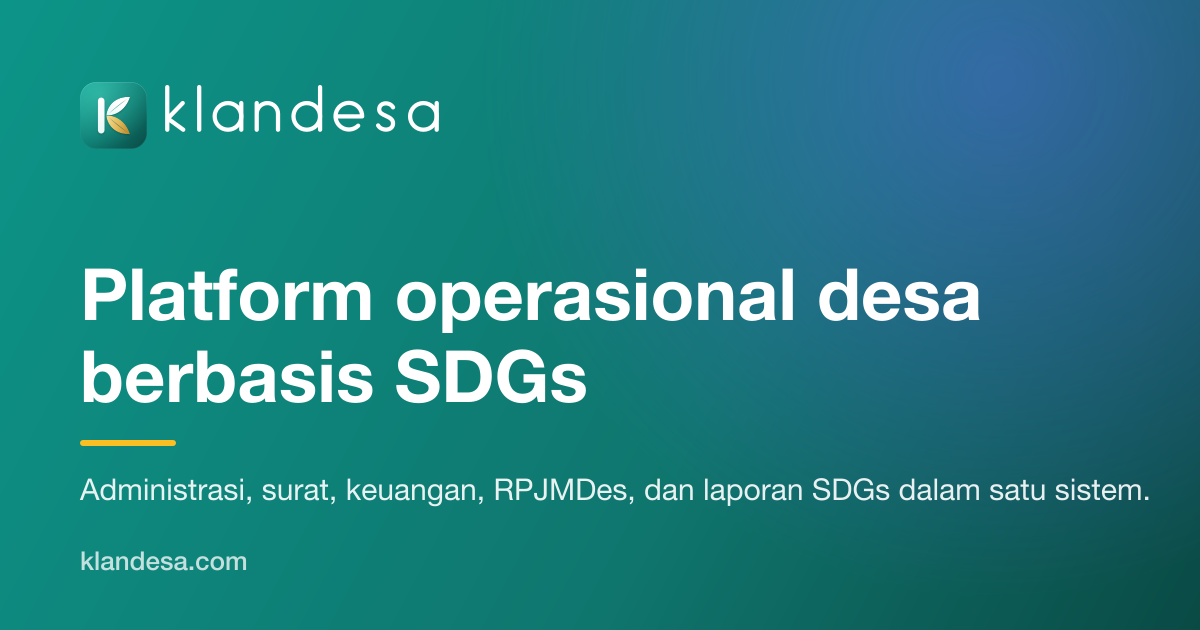
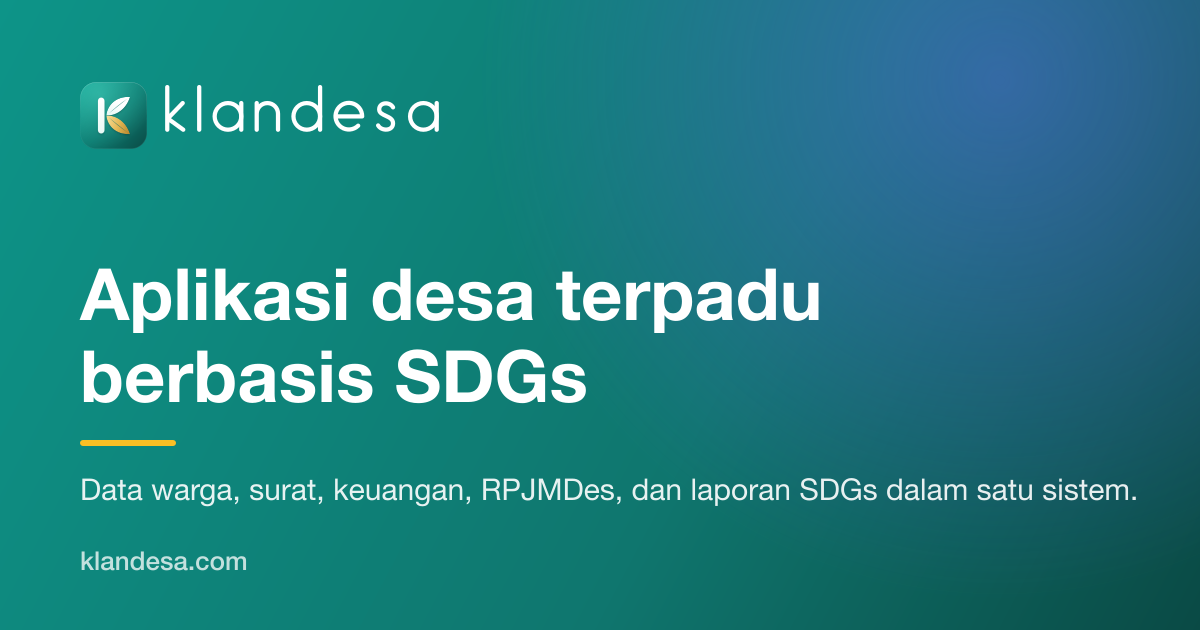
feat: update application metadata and content for improved clarity and SEO
- Revised metadata in layout.tsx to reflect new branding and application description, enhancing SEO and user understanding.
- Enhanced landing page content in harga/layout.tsx and solusi/desa/page.tsx to clarify features and offerings, including the integration of structured data for better search visibility.
- Updated various sections across components to reflect the new application narrative, emphasizing the comprehensive nature of the Klandesa platform and its features.
- Improved marketing copy in ModuleCatalog and PilotSpotlightSection to accurately represent the current state of features and user engagement.
- Adjusted hero and CTA sections to align messaging with the updated application focus, promoting trial offers and user benefits more effectively.

Changed region(s): [[0.0617, 0.4222, 0.8325, 0.5429], [0.0617, 0.754, 0.9558, 0.8143]]

diff --git a/components/features/HeroSection.tsx b/components/features/HeroSection.tsx
@@ -1,6 +1,10 @@
 import { ArrowRight, Sparkles, Target } from "lucide-react";
 import Link from "next/link";
 
+import { LENGKAP_SETUP_FEE } from "@/lib/billing/lengkap";
+
+const SETUP_FEE_LABEL = `Rp${(LENGKAP_SETUP_FEE / 1_000_000).toLocaleString("id-ID")} juta`;
+
 /** Dekoratif hero: satu lapisan absolute penuh, aksen lebih kuat di kanan. */
 function HeroBackdropDecor() {
   return (
@@ -62,62 +66,63 @@ export function HeroSection({
           <div className="inline-flex items-center gap-2 bg-white/80 backdrop-blur-sm px-4 py-2 rounded-full shadow-sm border border-[#0d9488]/20">
             <Target className="w-4 h-4 text-[#0d9488]" aria-hidden />
             <span className="text-sm text-gray-700">
-              Platform operasional desa • berbasis SDGs
+              Aplikasi desa terpadu • berbasis SDGs
             </span>
           </div>
 
           <h1 className="text-4xl md:text-3xl lg:text-5xl text-gray-900 leading-[1.1] tracking-tight font-extrabold flex flex-col gap-2">
-            Administrasi sampai Pelaporan
+            Aplikasi Desa dari Administrasi sampai Pelaporan
             <span className="bg-linear-to-r from-[#0d9488] via-[#0ea5e9] to-[#6366f1] bg-clip-text text-transparent animate-gradient">
-              Dalam satu platform cerdas
+              Dalam satu platform
             </span>
           </h1>
         </div>
 
         <p className="text-lg md:text-xl text-gray-600 leading-relaxed max-w-none w-full">
-          Klandesa menghubungkan surat daring, APBDes dengan penanda sasaran SDGs,
-          perencanaan RPJMDes, program PKK &amp; BUMDes, serta unduhan data dalam format
-          standar Kemendesa—dengan aturan akses yang jelas untuk perangkat desa dan pemda.
+          Klandesa menghubungkan data warga, surat daring, APBDes dengan penanda sasaran SDGs,
+          perencanaan RPJMDes, dan program PKK &amp; BUMDes—lengkap dengan aplikasi seluler untuk
+          warga, RT, dan perangkat desa, serta unduhan format Kemendesa dengan aturan akses yang jelas.
         </p>
 
         <div className="max-w-xl lg:max-w-2xl space-y-6">
           <div className="flex flex-wrap gap-3">
             <div className="flex items-center gap-2 bg-white/70 backdrop-blur-sm px-4 py-2 rounded-full shadow-sm border border-teal-100">
               <Sparkles className="w-4 h-4 text-amber-500" aria-hidden />
-              <span className="text-sm text-gray-700">Skor SDGs dihitung dari data operasional desa</span>
+              <span className="text-sm text-gray-700">Satu Paket Lengkap {SETUP_FEE_LABEL}, sudah termasuk tahun pertama</span>
             </div>
             <div className="flex items-center gap-2 bg-white/70 backdrop-blur-sm px-4 py-2 rounded-full shadow-sm border border-indigo-100">
-              <span className="text-sm text-gray-700">Unduh format Kemendesa + catatan riwayat pengiriman</span>
+              <span className="text-sm text-gray-700">Trial gratis 14 hari • semua fitur terbuka</span>
             </div>
           </div>
 
           <div className="flex flex-col sm:flex-row gap-4 justify-center lg:justify-start">
+            <button
+              type="button"
+              onClick={onRegisterClick}
+              className="group inline-flex items-center justify-center gap-2 bg-linear-to-r from-[#0d9488] to-[#0f766e] text-white px-8 py-4 rounded-xl hover:shadow-xl transition-all hover:scale-[1.02] cursor-pointer"
+            >
+              Coba gratis 14 hari
+              <ArrowRight className="w-5 h-5 group-hover:translate-x-0.5 transition-transform" />
+            </button>
             <Link
               href="/platform"
-              className="group inline-flex items-center justify-center gap-2 bg-linear-to-r from-[#0d9488] to-[#0f766e] text-white px-8 py-4 rounded-xl hover:shadow-xl transition-all hover:scale-[1.02]"
+              className="bg-white text-gray-900 px-8 py-4 rounded-xl border border-gray-200 shadow hover:shadow-md transition-all text-center"
             >
               Lihat Platform
-              <ArrowRight className="w-5 h-5 group-hover:translate-x-0.5 transition-transform" />
             </Link>
             <button
               type="button"
               onClick={onContactClick}
-              className="bg-white text-gray-900 px-8 py-4 rounded-xl border border-gray-200 shadow hover:shadow-md transition-all"
+              className="text-[#0d9488] font-medium px-2 py-4 hover:underline cursor-pointer"
             >
-              Konsultasi Gratis
-            </button>
-            <button
-              type="button"
-              onClick={onRegisterClick}
-              className="text-[#0d9488] font-medium px-2 py-4 hover:underline"
-            >
-              Daftar sekarang
+              Konsultasi gratis
             </button>
           </div>
 
           <div className="rounded-2xl border border-teal-100 bg-white/75 px-4 py-3 text-sm text-gray-700 max-w-md">
-            <strong className="text-[#0d9488]">Akses awal:</strong> modul seperti SDGs, RPJMDes, peta wilayah,
-            unduhan Kemendesa, dan Asisten AI dibuka bertahap untuk desa percontohan—hubungi tim kami untuk jadwalnya.
+            <strong className="text-[#0d9488]">Akses awal:</strong> SDGs, RPJMDes, peta wilayah,
+            unduhan Kemendesa, dan Asisten AI sudah termasuk Paket Lengkap; fiturnya masih
+            disempurnakan bersama desa pengguna.
           </div>
         </div>
       </div>

diff --git a/app/layout.tsx b/app/layout.tsx
@@ -23,12 +23,14 @@ const siteUrl = process.env.NEXT_PUBLIC_SITE_URL || "https://klandesa.com";
 
 export const metadata: Metadata = {
   title: {
-    default: "Klandesa — Platform Operasional Desa Berbasis SDGs",
+    default: "Klandesa — Aplikasi Desa Terpadu Berbasis SDGs",
     template: "%s | Klandesa",
   },
   description:
-    "Klandesa: platform operasional desa berbasis SDGs—administrasi, RPJMDes, integrasi format Kemendesa, dan modul program warga dalam satu sistem.",
+    "Klandesa: aplikasi desa terpadu berbasis SDGs—data warga, surat, keuangan, RPJMDes, format Kemendesa, dan aplikasi seluler warga dalam satu sistem.",
   keywords: [
+    "aplikasi desa",
+    "aplikasi surat desa",
     "platform SDGs desa",
     "aplikasi desa terintegrasi",
     "digitalisasi desa",
@@ -45,23 +47,23 @@ export const metadata: Metadata = {
     locale: "id_ID",
     url: siteUrl,
     siteName: "Klandesa",
-    title: "Klandesa — Platform Operasional Desa Berbasis SDGs",
+    title: "Klandesa — Aplikasi Desa Terpadu Berbasis SDGs",
     description:
-      "Platform operasional desa berbasis SDGs—administrasi, RPJMDes, program PKK/BUMDes, integrasi dokumentasi Kemendesa, satu sistem untuk desa dan pemda.",
+      "Aplikasi desa terpadu berbasis SDGs—data warga, surat, keuangan, RPJMDes, program PKK/BUMDes, dan aplikasi seluler, satu sistem untuk desa dan pemda.",
     images: [
       {
         url: "/images/og-klandesa.png",
         width: 1200,
         height: 630,
-        alt: "Klandesa — Platform operasional desa berbasis SDGs",
+        alt: "Klandesa — Aplikasi desa terpadu berbasis SDGs",
       },
     ],
   },
   twitter: {
     card: "summary_large_image",
-    title: "Klandesa — Platform Operasional Desa Berbasis SDGs",
+    title: "Klandesa — Aplikasi Desa Terpadu Berbasis SDGs",
     description:
-      "Administrasi sampai laporan SDGs: RPJMDes, integrasi dokumentasi Kemendesa, dan modul program dalam satu platform.",
+      "Administrasi sampai laporan SDGs: surat, keuangan, RPJMDes, format Kemendesa, dan aplikasi seluler warga dalam satu platform.",
     images: ["/images/og-klandesa.png"],
   },
   robots: {

diff --git a/lib/marketing/modules.ts b/lib/marketing/modules.ts
@@ -73,7 +73,7 @@ export const MARKETING_MODULE_COPY: Partial<Record<string, string>> = {
   statistik: "Ringkasan indikator desa mendukung kebijakan dan laporan wilayah.",
   "permohonan-warga": "Alur permohonan surat daring dengan status transparan.",
   "layanan-mandiri": "Warga atau admin mengisi layanan secara mandiri dan terstruktur.",
-  "layanan-surat": "Template dan nomor surat resmi konsisten untuk desa.",
+  "layanan-surat": "Susun surat resmi langsung di lembar kertas, dengan nomor surat otomatis.",
   "pengaturan-desa": "Profil dan preferensi desa, termasuk pengaturan pertukaran data.",
   keuangan: "Kas/APBDes, transaksi, dan pelaporan keuangan dengan penanda belanja SDGs.",
   "pengumuman-desa": "Kanal komunikasi resmi antara pemdes dan masyarakat.",
@@ -81,7 +81,7 @@ export const MARKETING_MODULE_COPY: Partial<Record<string, string>> = {
   "pengaduan-masyarakat": "Aduan dapat dilacak demi akuntabilitas pelayanan.",
   "bantuan-program-keluarga": "Pencatatan penerima program sosial mendukung SDGs tanpa menyalahgunakan data.",
   "galeri-desa": "Arsip foto kegiatan desa untuk komunikasi dan transparansi.",
-  absensi: "Presensi perangkat; opsional dengan penanda lokasi kantor desa.",
+  absensi: "Presensi perangkat desa dengan QR; absensi GPS radius tersedia sebagai add-on.",
   pkk:
     "PKK Dasawisma, posyandu, dan indikator kesehatan terhubung skor SDGs (akses awal).",
   sdgs:
@@ -129,14 +129,14 @@ export function getMarketingModules(): MarketingModuleItem[] {
 
 export function getFlagshipMarketingModules(limit = 8): MarketingModuleItem[] {
   const order = [
+    "data-warga",
+    "layanan-surat",
+    "permohonan-warga",
+    "keuangan",
+    "absensi",
+    "pengaduan-masyarakat",
     "sdgs",
     "rpjmdes",
-    "keuangan",
-    "sinkronisasi-data",
-    "peta-infrastruktur",
-    "pkk",
-    "bumdes",
-    "asisten-ai",
   ];
   const all = getMarketingModules();
   const byId = new Map(all.map((m) => [m.id, m]));

diff --git a/components/features/marketing/PilotSpotlightSection.tsx b/components/features/marketing/PilotSpotlightSection.tsx
@@ -3,22 +3,21 @@
 import { EARLY_ACCESS_LABEL } from "@/lib/marketing/copy";
 
 /**
- * Narratif pilot mengganti social proof berangka besar—transparan bahwa beberapa fitur
- * masih dibuka bertahap untuk desa percontohan.
+ * Narasi jujur pengganti social proof berangka besar: beberapa fitur masih berlabel akses awal
+ * (sudah termasuk Paket Lengkap, masih disempurnakan bersama desa pengguna).
  */
 export function PilotSpotlightSection() {
   return (
     <section className="py-14 md:py-16 bg-linear-to-br from-emerald-50/70 via-white to-indigo-50/60 border-y border-emerald-100/80">
       <div className="max-w-4xl mx-auto px-4 sm:px-6 lg:px-8 text-center space-y-5">
-        <p className="text-xs font-semibold uppercase tracking-[0.25em] text-[#0d9488]">Program percontohan</p>
+        <p className="text-xs font-semibold uppercase tracking-[0.25em] text-[#0d9488]">Dikembangkan bersama desa</p>
         <h2 className="text-2xl md:text-3xl text-gray-900 leading-snug">
-          Desa percontohan &amp; fitur akses awal
+          Fitur akses awal sudah termasuk paket
         </h2>
         <p className="text-gray-700 text-lg leading-relaxed">
-          Kami membangun bersama satu desa atau beberapa desa dalam satu kecamatan pada satu waktu.
-          Fitur seperti SDGs lengkap dan unduhan Kemendesa ditandai{" "}
-          <span className="font-semibold text-[#4338ca]">{EARLY_ACCESS_LABEL}</span> sampai wilayah Anda
-          siap dipasangkan pelatihan dan pendampingan resmi.
+          Klandesa dikembangkan bersama desa pengguna. Fitur seperti SDGs lengkap dan unduhan Kemendesa
+          ditandai <span className="font-semibold text-[#4338ca]">{EARLY_ACCESS_LABEL}</span>: sudah bisa
+          dipakai dan termasuk Paket Lengkap, tetapi masih disempurnakan dari masukan desa.
         </p>
       </div>
     </section>

diff --git a/components/features/CTASection.tsx b/components/features/CTASection.tsx
@@ -26,12 +26,12 @@ export function CTASection({
         </div>
 
         <h2 className="text-4xl md:text-5xl lg:text-6xl text-white mb-6 leading-tight">
-          Mau transformasi pembangunan desa Anda?
+          Siap merapikan administrasi desa Anda?
         </h2>
 
         <p className="text-xl md:text-2xl text-white/90 mb-12 max-w-3xl mx-auto leading-relaxed">
-          Ikuti program desa percontohan untuk fitur SDGs, unduhan Kemendesa, dan peta
-          pembangunan—kami jelaskan dengan jujur mana yang sudah siap pakai dan mana yang masih uji coba.
+          Coba semua fitur gratis 14 hari tanpa bayar di muka. Kami jelaskan dengan jujur
+          mana yang sudah matang dan mana yang masih berlabel akses awal.
         </p>
 
         <div className="flex flex-col sm:flex-row gap-4 justify-center pb-12">
@@ -40,7 +40,7 @@ export function CTASection({
             onClick={onRegisterClick}
             className="group relative bg-white text-[#0d9488] px-8 py-4 rounded-xl hover:shadow-2xl transition-all hover:scale-105 flex items-center justify-center gap-2 cursor-pointer"
           >
-            <span>Daftar / Gabung Pilot</span>
+            <span>Coba gratis 14 hari</span>
             <ArrowRight className="w-5 h-5 group-hover:translate-x-1 transition-transform" />
           </button>
 
@@ -85,7 +85,7 @@ export function CTASection({
         </div>
 
         <p className="mt-10 text-white/70 text-xs max-w-xl mx-auto">
-          Persiapan awal meliputi penyesuaian hak akses per jabatan dan orientasi paket penyimpanan. Lama proses bergantung kompleksitas desa Anda.
+          Persiapan awal meliputi penyesuaian hak akses per jabatan dan impor data warga dari Excel. Lama proses bergantung kompleksitas desa Anda.
         </p>
       </div>
     </section>

diff --git a/components/features/marketing/ProductShowcaseSection.tsx b/components/features/marketing/ProductShowcaseSection.tsx
@@ -13,14 +13,14 @@ export function ProductShowcaseSection() {
       <div className="max-w-7xl mx-auto px-4 sm:px-6 lg:px-8">
         <div className="text-center max-w-3xl mx-auto mb-14 space-y-3">
           <p className="text-sm font-semibold uppercase tracking-[0.18em] text-[#0d9488]">
-            Cuplikan antarmuka
+            Ilustrasi antarmuka
           </p>
           <h2 className="text-3xl md:text-4xl text-gray-900">
-            Cuplikan layar aplikasi
+            Gambaran tampilan aplikasi
           </h2>
           <p className="text-lg text-gray-600">
-            Gambaran tampilan unduhan Kemendesa, peta wilayah, asisten AI, dan RPJMDes—
-            supaya Anda bisa membayangkan alur kerja sebelum demo resmi.
+            Ilustrasi (bukan tangkapan layar asli) alur unduhan Kemendesa, peta wilayah, asisten AI,
+            dan RPJMDes—supaya Anda bisa membayangkan alur kerjanya.
           </p>
         </div>
 
@@ -110,10 +110,9 @@ export function ProductShowcaseSection() {
         </div>
 
         <p className="mt-12 text-center text-sm text-gray-500 max-w-2xl mx-auto">
-          Butuh foto layar tinggi atau studi lapangan wilayah tertentu? Tim produk dapat menyiapkannya bersama Anda
-          setelah jadwal demo resmi.&nbsp;
+          Ingin melihat aplikasi yang sebenarnya?&nbsp;
           <Link href="/demo" className="text-[#0d9488] font-semibold underline-offset-4 hover:underline">
-            Kunjungi halaman Demo
+            Coba akun demo
           </Link>
           .
         </p>

diff --git a/app/(landing)/harga/layout.tsx b/app/(landing)/harga/layout.tsx
@@ -1,5 +1,7 @@
 import type { Metadata } from "next";
+import { LENGKAP_SETUP_FEE } from "@/lib/billing/lengkap";
 import { getLandingPageMetadata } from "@/lib/seo/landing-pages";
+import { getMainSiteOrigin } from "@/lib/seo/url";
 
 export const metadata: Metadata = getLandingPageMetadata("harga");
 
@@ -8,5 +10,33 @@ export default function HargaLayout({
 }: {
   children: React.ReactNode;
 }) {
-  return <>{children}</>;
+  const origin = getMainSiteOrigin();
+  const productJsonLd = {
+    "@context": "https://schema.org",
+    "@type": "SoftwareApplication",
+    name: "Klandesa Paket Lengkap",
+    applicationCategory: "BusinessApplication",
+    operatingSystem: "Web, Android",
+    url: `${origin}/harga`,
+    inLanguage: "id-ID",
+    description:
+      "Aplikasi desa terpadu: data warga, surat, keuangan, RPJMDes, SDGs, dan aplikasi seluler warga. Biaya awal sudah termasuk tahun pertama; mulai tahun ke-2 Rp100.000 per bulan. Trial gratis 14 hari.",
+    offers: {
+      "@type": "Offer",
+      price: LENGKAP_SETUP_FEE,
+      priceCurrency: "IDR",
+      url: `${origin}/harga`,
+      availability: "https://schema.org/InStock",
+    },
+  };
+
+  return (
+    <>
+      <script
+        type="application/ld+json"
+        dangerouslySetInnerHTML={{ __html: JSON.stringify(productJsonLd) }}
+      />
+      {children}
+    </>
+  );
 }

diff --git a/lib/seo/landing-pages.ts b/lib/seo/landing-pages.ts
@@ -31,17 +31,18 @@ export type LandingPageSeoConfig = {
 const landingPageSeoMap: Record<LandingPageSeoKey, LandingPageSeoConfig> = {
   home: {
     pathname: "/",
-    title: "Klandesa — Platform Operasional Desa Berbasis SDGs",
+    title: "Klandesa — Aplikasi Desa Terpadu Berbasis SDGs",
     absoluteTitle: true,
     description:
-      "Satu sistem untuk administrasi desa, RPJMDes, program PKK/BUMDes, dashboard 18 sasaran SDGs, peta wilayah, serta export format interoperability Kemendesa.",
+      "Aplikasi desa terpadu: data warga, surat, keuangan, RPJMDes, SDGs, dan aplikasi seluler warga. Paket Lengkap Rp3,5 juta, trial gratis 14 hari.",
     keywords: [
-      "platform SDGs desa",
-      "aplikasi desa terintegrasi",
+      "aplikasi desa",
+      "sistem informasi desa",
+      "aplikasi administrasi desa",
+      "aplikasi surat desa",
       "digitalisasi desa",
       "RPJMDes digital",
-      "integrasi kemendesa",
-      "sistem informasi desa",
+      "platform SDGs desa",
       "klandesa",
     ],
     robots: "index, follow",

diff --git a/components/features/StatsSection.tsx b/components/features/StatsSection.tsx
@@ -26,10 +26,9 @@ export function StatsSection({ onRegisterClick }: StatsSectionProps) {
     },
     {
       icon: Smartphone,
-      number: "100%",
-      label: "Akses aplikasi daring responsif lintas layar",
+      number: "3",
+      label: "Pengguna aplikasi seluler: warga, RT, dan perangkat desa",
       color: "bg-slate-600",
-      note: "(tanpa aplikasi seluler tambahan dalam janji utama)",
     },
   ];
 
@@ -78,9 +77,6 @@ export function StatsSection({ onRegisterClick }: StatsSectionProps) {
               <div className="text-base text-gray-600 group-hover:text-gray-900 transition-colors">
                 {stat.label}
               </div>
-              {"note" in stat && stat.note ? (
-                <p className="text-xs text-gray-500 mt-3">{stat.note}</p>
-              ) : null}
             </div>
           ))}
         </div>

diff --git a/components/features/partner-public/content.ts b/components/features/partner-public/content.ts
@@ -12,8 +12,8 @@ export const desaValuePoints = [
     body: "Ringkasan 18 tujuan dan peta capaian per RT/RW membantu menentukan program yang tepat sasaran bersama BPD dan warga.",
   },
   {
-    title: "Bersedia jadi desa percontohan",
-    body: "Fitur SDGs lanjutan dan Asisten AI dibuka bertahap bersama tim pendamping Klandesa—bukan dijanjikan sekaligus tanpa pelatihan.",
+    title: "Fitur akses awal sudah termasuk",
+    body: "SDGs lanjutan dan Asisten AI sudah termasuk Paket Lengkap. Keduanya masih berlabel akses awal dan disempurnakan bersama desa pengguna dengan pendampingan tim Klandesa.",
   },
 ] as const;
 

diff --git a/components/features/AboutSection.tsx b/components/features/AboutSection.tsx
@@ -37,7 +37,7 @@ export function AboutSection() {
       icon: Rocket,
       title: 'Lebih dari 30 fitur, satu aplikasi',
       description:
-        'Administrasi inti sudah siap pakai; fitur SDGs dan peta wilayah dibuka bertahap—daftar fitur di website sama dengan yang ada di aplikasi desa Anda.',
+        'Administrasi inti sudah siap pakai; SDGs dan peta wilayah masih berlabel akses awal—daftar fitur di website sama dengan yang ada di aplikasi desa Anda.',
       bgColor: 'bg-gradient-to-br from-blue-50 to-blue-100',
       iconColor: 'text-blue-600',
       borderColor: 'border-blue-400',

diff --git a/app/(landing)/solusi/desa/page.tsx b/app/(landing)/solusi/desa/page.tsx
@@ -18,8 +18,8 @@ const points = [
     body: "Ringkasan 18 tujuan dan peta capaian per RT/RW membantu menentukan program yang tepat sasaran bersama BPD dan warga.",
   },
   {
-    title: "Bersedia jadi desa percontohan",
-    body: "Fitur SDGs lanjutan dan Asisten AI dibuka bertahap bersama tim pendamping Klandesa—bukan dijanjikan sekaligus tanpa pelatihan.",
+    title: "Fitur akses awal sudah termasuk",
+    body: "SDGs lanjutan dan Asisten AI sudah termasuk Paket Lengkap. Keduanya masih berlabel akses awal dan disempurnakan bersama desa pengguna dengan pendampingan tim Klandesa.",
   },
 ];
 
